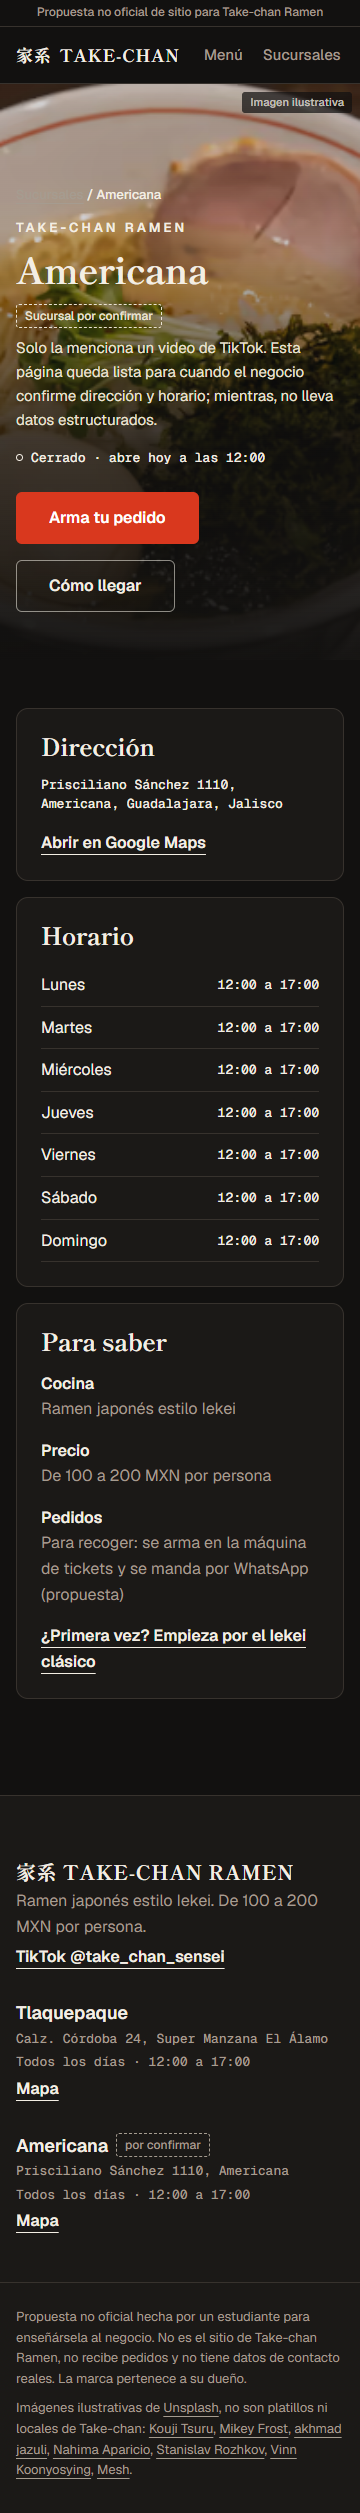
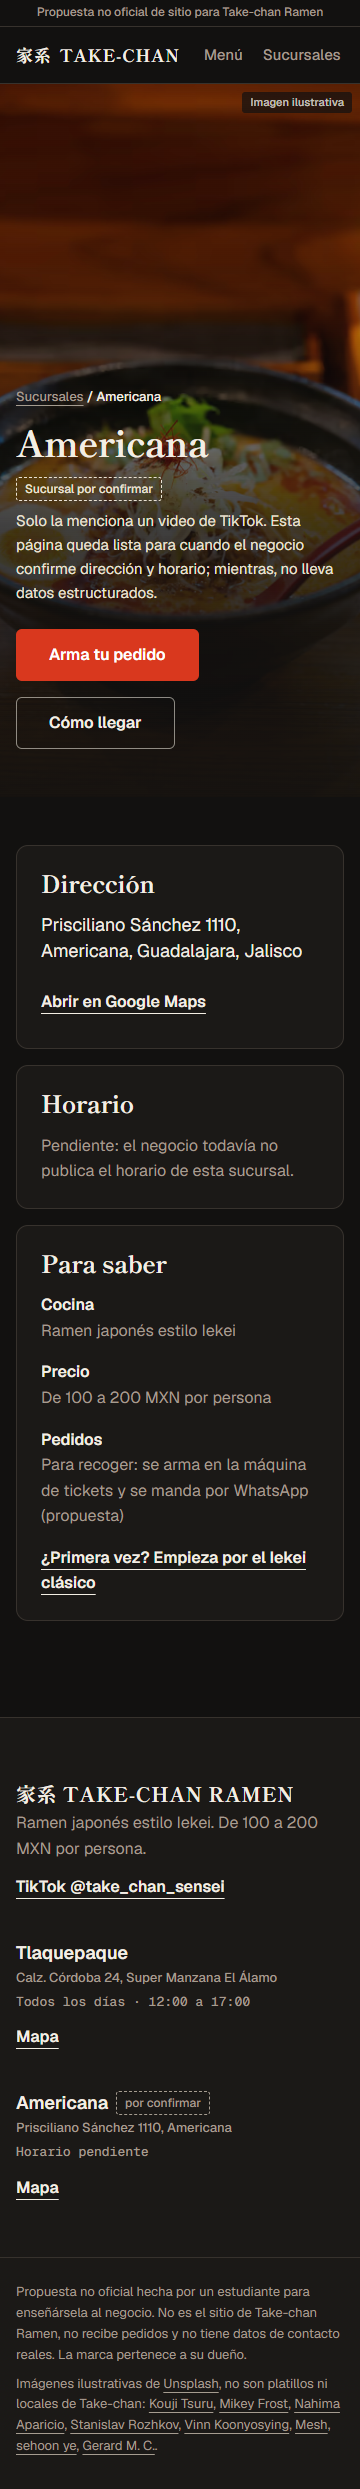
R7: pruebas, comparativa antes y después y mockups de visita

diff --git a/PROGRESO.md b/PROGRESO.md
@@ -2,7 +2,7 @@
 
 - **Pages:** https://andre-bhp.github.io/Take-chan/
 - **Repositorio:** https://github.com/Andre-BHP/Take-chan
-- **Última subida:** 2026-11-16 10:38 (hora de Guadalajara)
+- **Última subida:** 2026-11-16 10:40 (hora de Guadalajara)
 
 ## Rediseño (2026-11-15)
 André revisó la primera versión: "quedó muy feo y muy mal". Este rediseño cambia la dirección a "una ramen-ya de Yokohama de noche": fotos de ejemplo rotuladas, negro sumi y papel washi, 家系 vertical y un solo acento bermellón.
@@ -14,19 +14,19 @@ André revisó la primera versión: "quedó muy feo y muy mal". Este rediseño c
 - [x] R4. `/menu` con una máquina de tickets de verdad
 - [x] R5. Sucursales y pie
 - [x] R6. Revisión de impeccable y design-taste-frontend, y correcciones
-- [ ] R7. Pruebas, comparativa antes y después, mockups de visita
+- [x] R7. Pruebas, comparativa antes y después, mockups de visita
 - [ ] R8. Reporte
 
 ## Primera versión (pasos 0 a 9, terminada)
 Repositorio, Pages, datos, inicio, máquina de tickets, sucursales con JSON-LD, pruebas y lista para el negocio. Capturas en `entregables/avances/antes/`.
 
 ## Último paso
-**R6.** Revisiones de impeccable (finish review), design-taste-frontend y better-typography, y correcciones: máquina reconstruida (teclas iluminadas tipo 券売機, columna de cobro con billetes, monedas, total, devolución y cambio, y boca de salida del ticket); mensaje de WhatsApp demo en línea, sin ventana modal; noren de tela washi con 家系ラーメン en sumi, al cierre de la página; sin rótulo encima del título y 家系 más grande en celular; fotos de proceso nuevas para no repetir imágenes; la Americana ya no muestra horario ni "abierto/cerrado" supuestos; direcciones en sans; enlaces de 44 px; sin desborde a 320 px; Geist en negritas a 600 sin sintetizar; subconjunto japonés automático. Se mantuvieron, porque el plan los pide: la sección horizontal fija y el vaivén del noren.
+**R7.** Pruebas en verde ([`entregables/pruebas.txt`](entregables/pruebas.txt)): axe sin violaciones en las 4 páginas a 390 y 1440 px; sin scroll horizontal a 360 (y a 320) px; portada de 420 KB con fotos AVIF; LCP de 1.4 s con 4G lenta y CPU 4x; con movimiento reducido no hay vapor ni ticket deslizándose. Comparativa en [`entregables/avances/comparativa.png`](entregables/avances/comparativa.png), capturas a 360, 390 y 1440 en [`entregables/capturas/`](entregables/capturas/) y mockups de visita nuevos en [`entregables/capturas-visita/`](entregables/capturas-visita/). `DESIGN.md` con lo que quedó construido.
 
 ## Sigue
-R7: pruebas, comparativa antes y después y mockups de visita.
+R8: reporte a André.
 
 ## Capturas más recientes
-| Portada 360 | Menú 1440 | WhatsApp demo 390 |
-|---|---|---|
-| <img src="entregables/avances/2026-11-16_paso-R6_360.png" width="160"> | <img src="entregables/avances/2026-11-16_paso-R6_menu_1440.png" width="320"> | <img src="entregables/avances/2026-11-16_paso-R6_whatsapp_390.png" width="160"> |
+| Antes y después |
+|---|
+| <img src="entregables/avances/comparativa.png" width="640"> |

diff --git a/DESIGN.md b/DESIGN.md
@@ -143,3 +143,13 @@ Sustituye al de la primera versión. Tokens fijados antes de construir (dis-019)
 
 ## Datos de ejemplo
 Una sola nota por página: "Propuesta: menú, precios y fotos de ejemplo hasta que Take-chan confirme los suyos". Cada foto lleva un rótulo pequeño "Imagen ilustrativa". Solo la sucursal Americana lleva su marca "por confirmar".
+
+## Lo que quedó construido (2026-11-16)
+Diferencias con los tokens de arriba, después de las revisiones de impeccable, design-taste-frontend y better-typography:
+- **Héroe:** en escritorio la foto ocupa la derecha a sangre y se funde con el sumi hacia el texto; en celular ocupa la parte de arriba. Sin rótulo encima del título; 家系 a `clamp(5.75rem, 26vw, 13rem)`.
+- **Máquina de tickets (券売機):** cuerpo de esmalte oscuro, letrero washi iluminado, teclas claras tipo botón iluminado con foto, nombre y precio LED ámbar; columna de cobro (千円札, 硬貨, 合計, 返却, おつり) y boca de salida 発券口. Sombras difusas, sin canto duro.
+- **Noren:** tela washi con 家系ラーメン en sumi, una sola vez, al cierre de la portada; se mece al pasar el cursor.
+- **WhatsApp en demostración:** el mensaje aparece en línea como globo bajo el botón, sin ventana modal.
+- **Mono:** solo horario, estado y precios; las direcciones van en Geist.
+- **Pesos cargados:** Shippori 700 y 800, Geist 400, 500 y 600 (las negritas usan 600), Geist Mono 500. El subconjunto japonés se arma solo con los caracteres de `sitio/src`.
+- **Sucursal Americana:** solo la marca "por confirmar"; sin estado abierto o cerrado, sin horario supuesto y sin JSON-LD.
